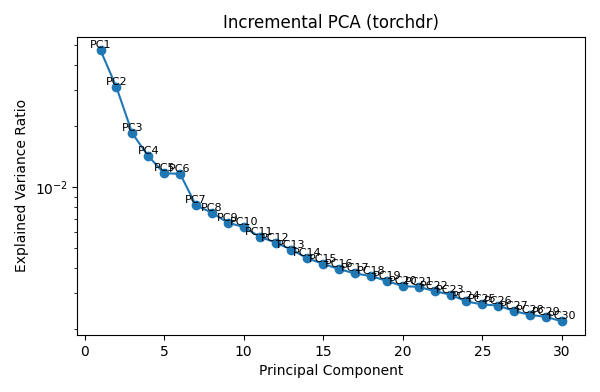
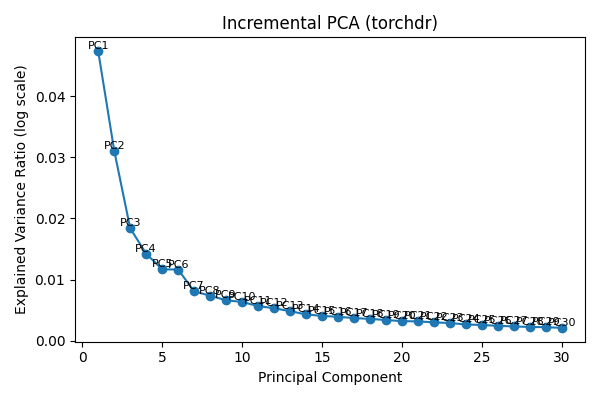
corrected variance ratio

diff --git a/src/ipca_torchdr.py b/src/ipca_torchdr.py
@@ -108,7 +108,6 @@ explained_var = ipca.explained_variance_ratio_.cpu().numpy()
 pcs = np.arange(1, n_components + 1)
 
 plt.figure(figsize=(6, 4))
-plt.yscale("log")
 plt.plot(
     np.arange(1, n_components + 1),
     explained_var,
@@ -138,8 +137,11 @@ plt.scatter(
     s=5,
     alpha=0.6
 )
-plt.xlabel("IPCA 1")
-plt.ylabel("IPCA 2")
+pc1_pct = explained_var[0] * 100
+pc2_pct = explained_var[1] * 100
+
+plt.xlabel(f"IPCA 1 ({pc1_pct:.2f}%)")
+plt.ylabel(f"IPCA 2 ({pc2_pct:.2f}%)")
 plt.title("Incremental PCA (torchdr)")
 plt.tight_layout()
 plt.show()

diff --git a/src/pca.py b/src/pca.py
@@ -26,7 +26,12 @@ start = time.perf_counter()
 # we reduce these thousand of genes to components
 # what does the package does underneath?
 # should be done manually? 
-sc.tl.pca(adata, svd_solver='arpack')
+sc.tl.pca(
+    adata,
+    svd_solver="arpack",
+    n_comps=30,
+    mask_var="highly_variable"
+)
 
 # stop timer
 pca_time = time.perf_counter() - start
